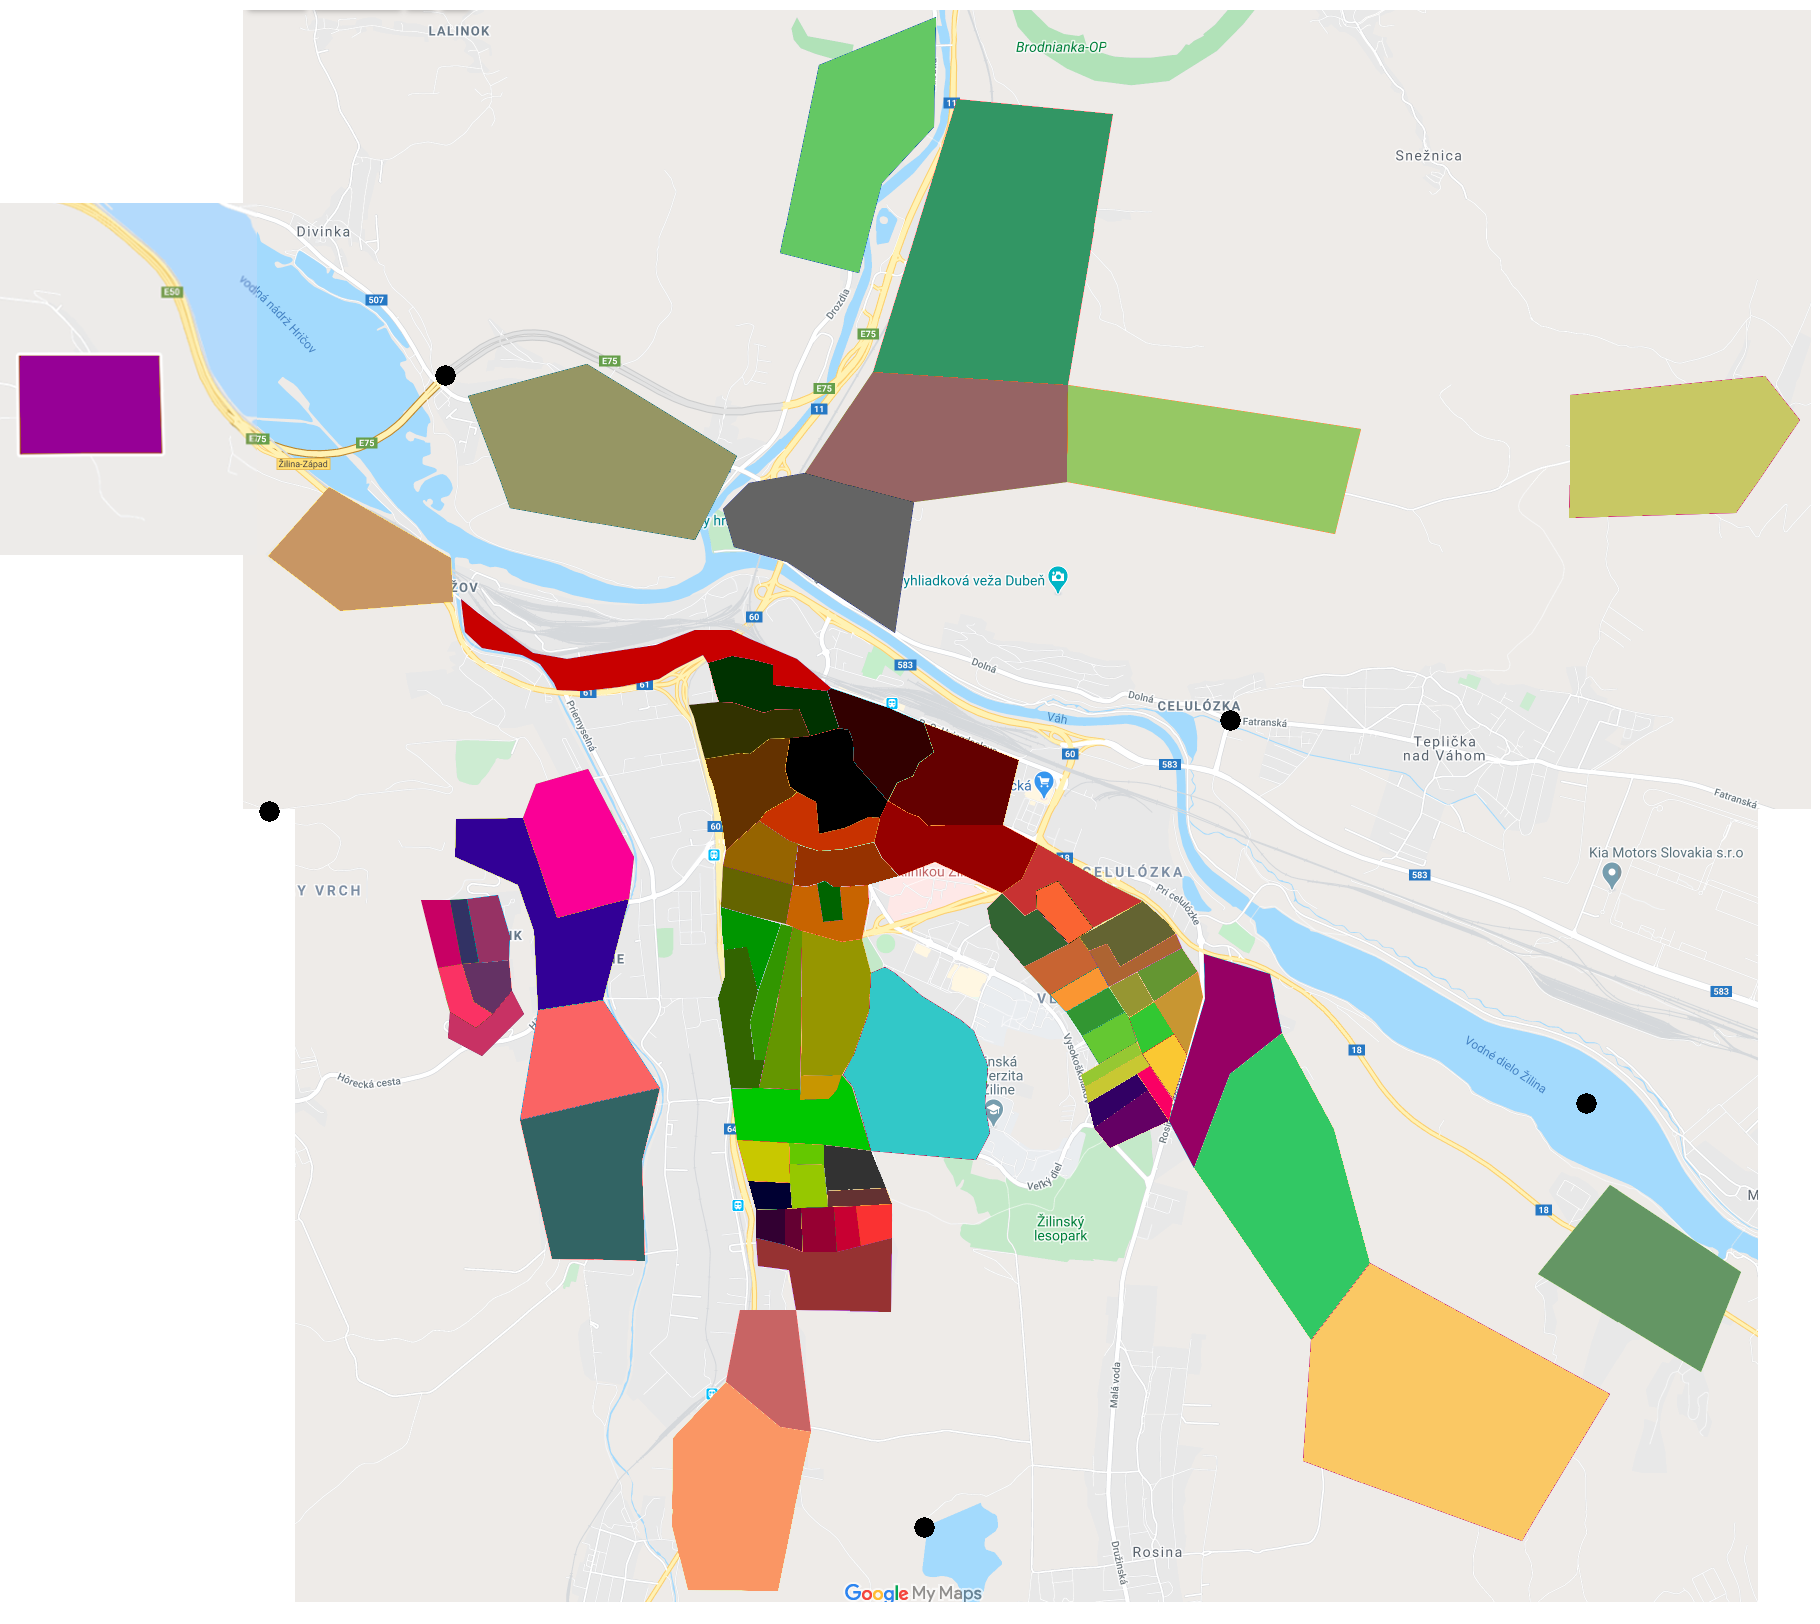
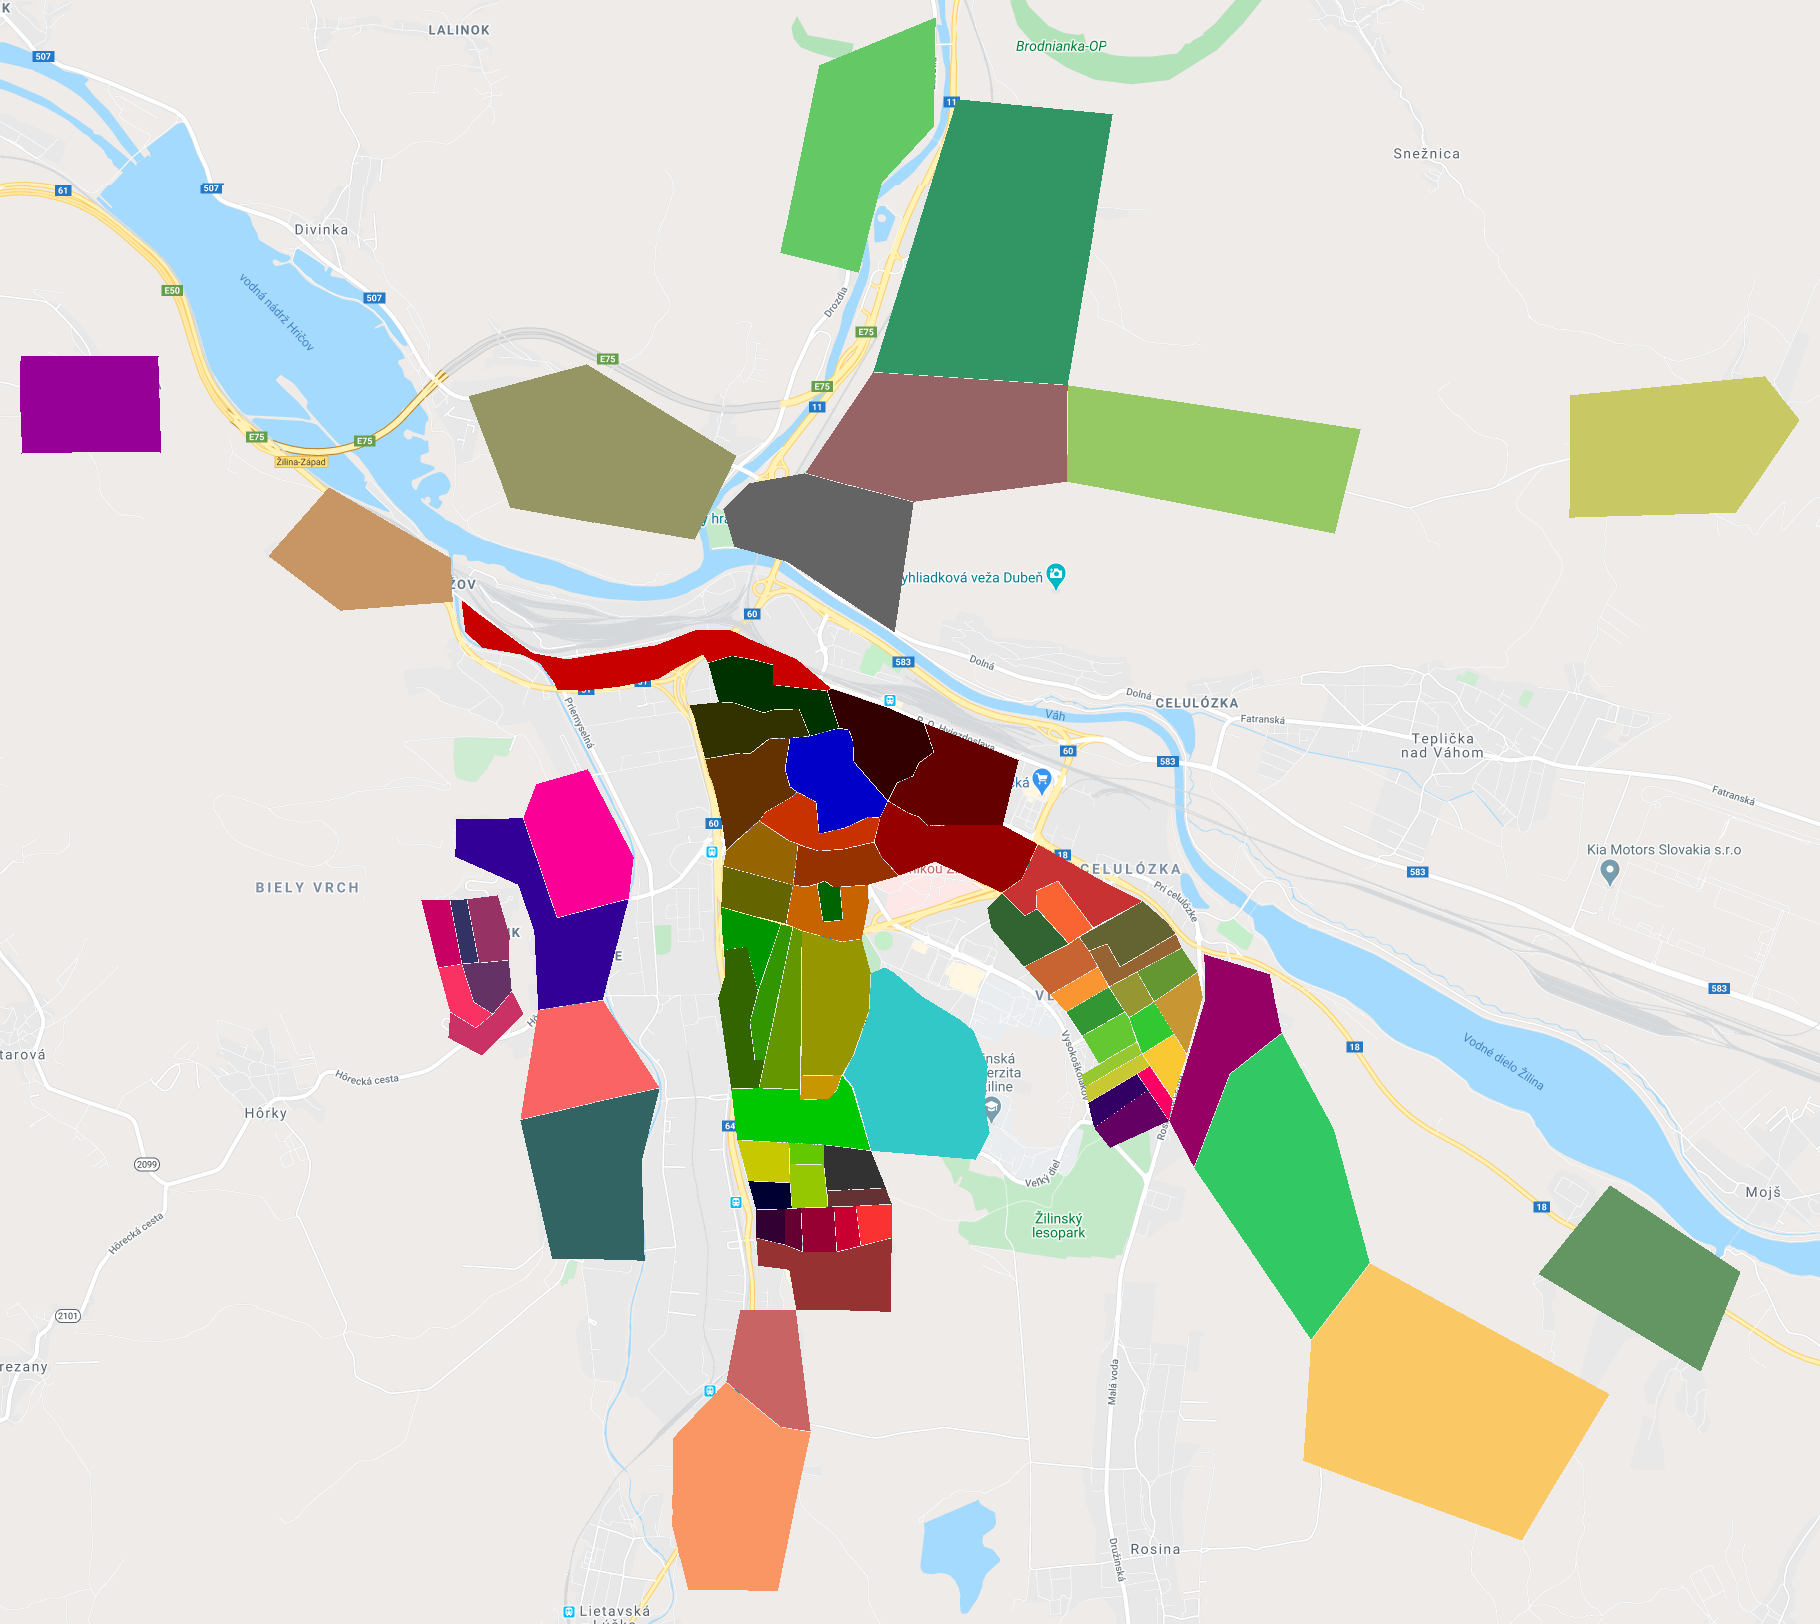
1. The map was corrected, one color was with wrong RGB 2. Created the empty map (without districts) 3. Cretaed a blank map with ONLY districts 4. Corrected the map - no more white areas.... 5. Corresponding functions added to the python module

diff --git a/scripts/outbreak.py b/scripts/outbreak.py
@@ -51,6 +51,55 @@ def draw_map_with_stops(list_of_stops):
 
     img.show()
 
+def is_color_in_list_of_colors(color,list_colors):
+    for col in list_colors:
+        if color[0] == col[0] and color[1] == col[1] and color[2] == col[2]:
+            return 1
+    return 0
+
+def extract_districts_map(filename):
+    # takes the original map and creates a new file with only districts
+    try:
+        mapOfZilina  = Image.open(filename).convert('RGB')
+    except IOError:
+        pass
+
+    w, h = mapOfZilina.size  # getting max. size of both axis
+    colors = np.genfromtxt('data/zilina_color_coding_districts.dat',
+                       dtype=None,
+                       usecols=(1, 2, 3),
+                       delimiter=' ')
+    colourRange = 78
+    new_image = Image.new('RGB', (w, h))
+    for i in range(0, w):
+        print(str(i) + "/" + str(w))
+        for j in range(0, h):
+            current_color = mapOfZilina.getpixel( (i,j) )
+            if is_color_in_list_of_colors(current_color,colors) == 1:
+                new_image.putpixel( (i,j), current_color)
+            else:
+                new_image.putpixel( (i,j), (255,255,255))
+    new_image.save("data/zilina_map_only_districts.png")
+
+def overlay_map_with_districts():
+    # one-time function for corretcint the original map. Takes the empty map, takes the map with only districts and overlay them. 
+    try:
+        empty_map  = Image.open("data/zilina_map_empty.png").convert('RGB')
+    except IOError:
+        pass
+    try:
+        dist_map  = Image.open("data/zilina_map_only_districts.png").convert('RGB')
+    except IOError:
+        pass
+
+    w, h = empty_map.size  # getting max. size of both axis
+    for i in range(0, w):
+        print(str(i) + "/" + str(w))
+        for j in range(0, h):
+            col = dist_map.getpixel( (i,j) )
+            if col[0] != 255 or col[1] != 255 or col[2] != 255:
+                empty_map.putpixel( (i,j), col)
+    empty_map.save("data/zilina_map_districts_corrected.png")
 
 class Stop:
     def __init__(self, id, name, latt, longit, x, y):
@@ -290,3 +339,4 @@ class Map:
                 total_number_of_trips += self.OD[i][j]
             print(" ")
         print("total number of trips: ", total_number_of_trips)
+        
